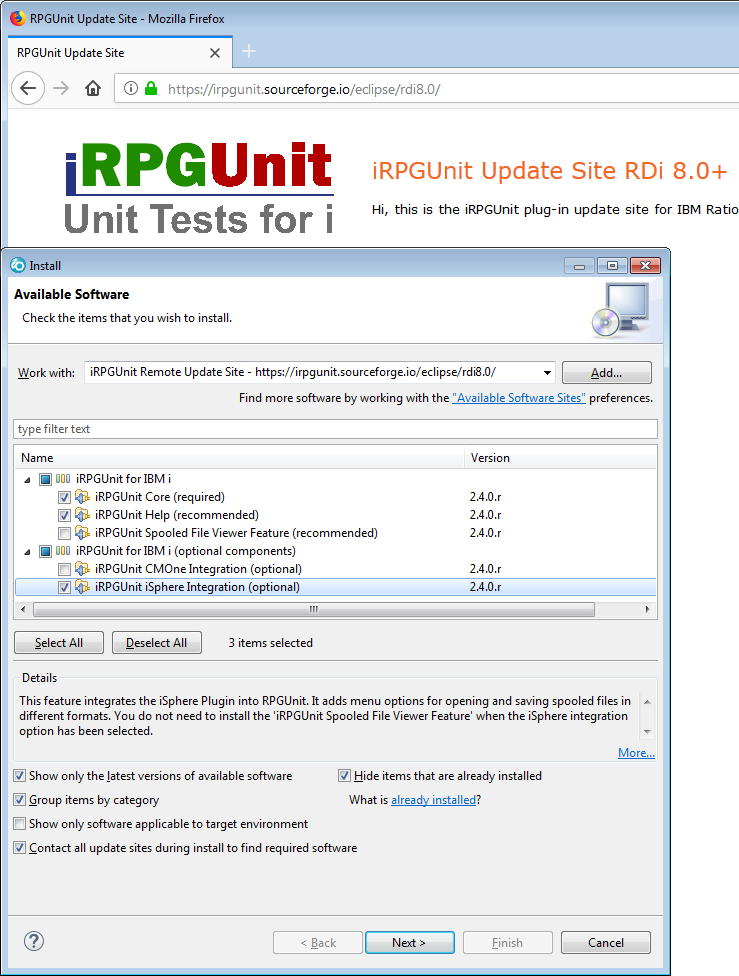
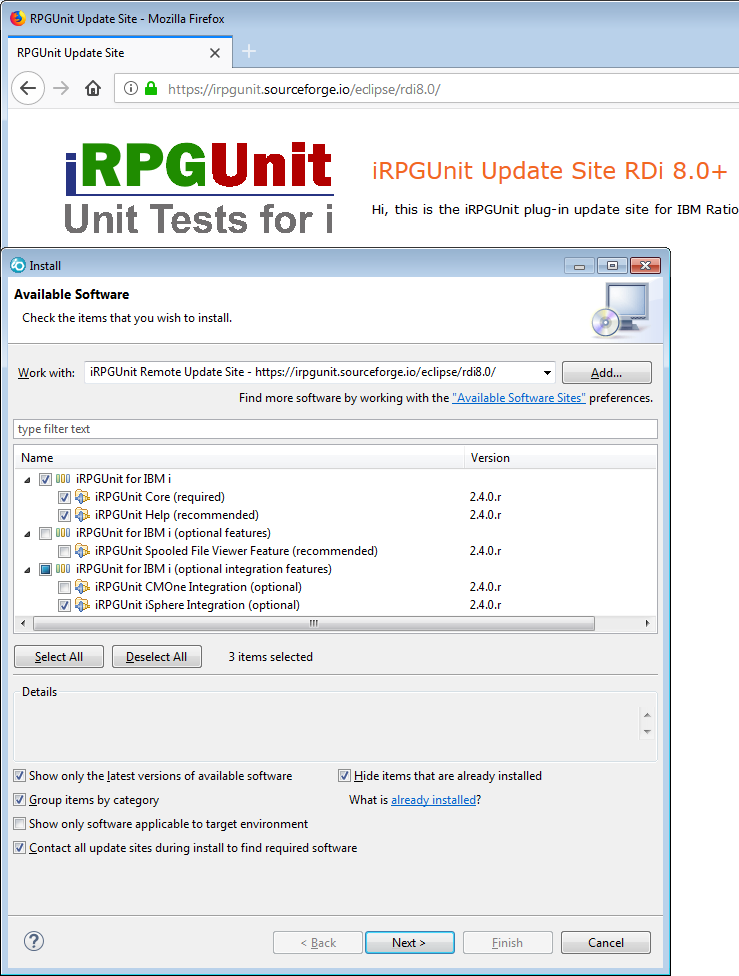
Updated help text and feature description.

Changed region(s): [[0.0, 0.5225, 0.9026, 0.7684], [0.8403, 0.7684, 0.8714, 0.7992]]

diff --git a/eclipse/iRPGUnit Help Plugin/html/quickstart/installation.html b/eclipse/iRPGUnit Help Plugin/html/quickstart/installation.html
@@ -9,7 +9,7 @@
 <body>
 <h1>Installation</h1>
 <p>
-Installing and using the iRPGUnit plug-in requires three steps:
+Installing the iRPGUnit plug-in requires three steps:
 <p>
 <ul>
 <li><a href="#installing_the_plugin">Installing the iRPGUnit Plug-in</a></li>
@@ -20,10 +20,35 @@ Installing and using the iRPGUnit plug-in requires three steps:
 <a id="#installing_the_plugin" />
 <h2>Installing the iRPGUnit Plug-in</h2>
 <p>
+<h3>What Should I Install?</h3>
+<p>
+Everything of category <i>iRPGUnit for IBM i</i> belongs to the base components of
+iRPGUnit and must or at least should be installed:
+<p>
+<ul>
+<li>iRPGUnit Core (required)</li>
+<li>iRPGUnit Help (recommended)</li>
+</ul>
+<p>
+Features of category <i>iRPGUnit for IBM i (optional features)</i> are optional and 
+can be installed depending on your needs:
+<p>
+<ul>
+<li>iRPGUnit Spooled File Viewer Feature (recommended, if iSphere is missing)</li>
+</ul>
+<p>
+Features of category <i>iRPGUnit for IBM i (optional integration features)</i> are optional
+and can be installed depending on your needs:
+<p>
+<ul>
+<li>iRPGUnit iSphere Integration (optional)</li>
+<li>iRPGUnit CMOne Integration (optional)</li>
+</ul>
+<p>
 <h3>Using Eclipse Marketplace</h3>
 <p>
 From the main menu, select "Help > Eclipse Marketplace..." to enter the marketplace.
-Search for iRPGUnit and click the Install button:
+Search for 'iRPGUnit' and click the [Install] button:
 <p class="indent">
 <img class="noborder" src="./assets/eclipseMarketplace.png">
 <p>
@@ -46,20 +71,23 @@ http://www.tools400.de/rpgunit/update/rdp8.0/</a>
 <p>
 <h3>Using a Local Update Directory</h3>
 <p>
-Go to the iRPGUnit <a href="@PROJECT_HOME@" target="_blank">download page</a> at SourceForge and download the zip file for your environment.
+Go to the iRPGUnit <a href="@PROJECT_HOME@" target="_blank">download page</a> at SourceForge.
 <p>
 Then follow these steps to create your local update site:
 <p>
 <ul>
+<li>Download the zip file to a directory of your choice.</li>
 <li>Unpack the zip file to a directory of your choice. This directory will be your local update site.</li>
 <li>From the main menu, select "Help > Install New Software..." to enter the "Install" dialog.</li>
 <li>Press the [Add] button to add your directory to the list of available update sites.</li>
 <li>Use the [Local...] button to select your directory.</li>
 </ul>
 <p>
+Select the options you want to install, press the [Next] button and follow the instructions given on the following pages.
+<p>
 <h3>Using a Local Update Archive</h3>
 <p>
-Go to the iRPGUnit <a href="@PROJECT_HOME@" target="_blank">download page</a> at SourceForge and download the zip file for your environment.
+Go to the iRPGUnit <a href="@PROJECT_HOME@" target="_blank">download page</a> at SourceForge.
 <p>
 Then follow these steps to create your local update site:
 <p>
@@ -71,17 +99,17 @@ Then follow these steps to create your local update site:
 <li>Use the [Archive...] button to select the zip file.</li>
 </ul>
 <p>
-Finished. Please restart RPD to use the plug-in.
+Select the options you want to install, press the [Next] button and follow the instructions given on the following pages.
 <p>
 <a id="#installing_the_library" />
 <h2>Installing the RPGUnit Library</h2>
 <p>
-First you need to transfer save file RPGUNIT.SAVF to your server and restore library 
+First you need to transfer save file <i>RPGUNIT.SAVF</i> to your server and restore library 
 <code>RPGUNIT</code>. Then compile and execute program <code>A_INSTALL</code> 
-to create the required objects. The save file is part of the update site zip file
-and the iRPGUnit Core Plug-in jar file.
+to create the required objects. The save file is part of the update site zip file. You find it 
+in folder <i>/Server</i> of the zip file.
 <p>
-<h3>Using the Embedded Installer</h3>
+<h3>Using the Embedded Install Dialog</h3>
 <p>
 The most easiest way to install the library is to upload it from the preference page of the iRPGUnit 
 plug-in. However that requires that you are allowed to start a FTP connection to your host.
@@ -92,17 +120,17 @@ Take these steps to use the embedded installer:
 <li>Filter for 'iRPGUnit'.</li>
 <li>Click the upload button next to option 'Runtime: Product library'.</li>
 <li>Select a connection.</li>
-<li>Check the FTP port. The default is 21.</li>
-<li>Check the library. The default is 'RPGUNIT'.</li>
+<li>Check the FTP port number. The default is 21.</li>
+<li>Check the library name. The default is 'RPGUNIT'.</li>
 <li>Click the [Install] button.</li>
 </ul>
 <p>
 <table class="info">
 <tr><td>You do not necessarily need to compile the library unless you want to run
-        the self-test unit tests.</td></tr>
+        the RPGUnit self-test.</td></tr>
 </table>
 <p>
-<h3>Transfer Save File With upload_savf.bat</h3>
+<h3>Transfer Save File With 'upload_savf.bat'</h3>
 <p>
 Download the zipped update site from the iRPGUnit '<a href="https://sourceforge.net/projects/irpgunit/files/?source=navbar">Files</a>' section
 at SourceForge, e.g. <i>iRPGUnit for RDi 8.0+ (v2.2.2.r Update Site).zip</i>.
@@ -118,7 +146,7 @@ Run <i>upload_savf.bat</i> with the following parameters:
 </pre>
 Calling <i>upload_savf.bat</i> without parameters displays usage instructions.
 <p>
-Go ahead with <a href="#compiling_the_library">compiling</a>a> the library.
+Go ahead with <a href="#compiling_the_library">Compiling the RPGUnit Library</a> the library.
 <p>
 <h3>Transfer Save File by Hand</h3>
 <p>
@@ -140,15 +168,15 @@ Transfer save file:
   put RPGUnit_v* QGPL/RPGUNIT
   
 Terminate FTP session:
-  quite
+  quit
 </pre> 
 <p>
-Go ahead with <a href="#compiling_the_library">compiling</a>a> the library.
+Go ahead with <a href="#compiling_the_library">Compiling the RPGUnit Library</a> the library.
 <p>
 <a id="#compiling_the_library" />
 <h3>Compiling the RPGUnit Library</h3>
 <p>
-Logon to your server and restore library <code>RPGUNIT</code> from the save  
+Logon to your server, restore library <code>RPGUNIT</code> from the save  
 file and add the library to your library list:
 <pre class="indent">
   RSTLIB SAVLIB(RPGUNIT) DEV(*SAVF) SAVF(QGPL/RPGUNIT)
@@ -162,7 +190,7 @@ RPGUnit objects:
 </pre>
 Finished.
 <p>
-<table class="important">
+<table class="notice">
 <tr><td>Do not forget to add library <b>RPGUNIT</b> to the library list of your Remote Connection or 
         change the product library from *LIBL to the actual library on the iRPGUnit preference page.</td></tr>
 </table>
